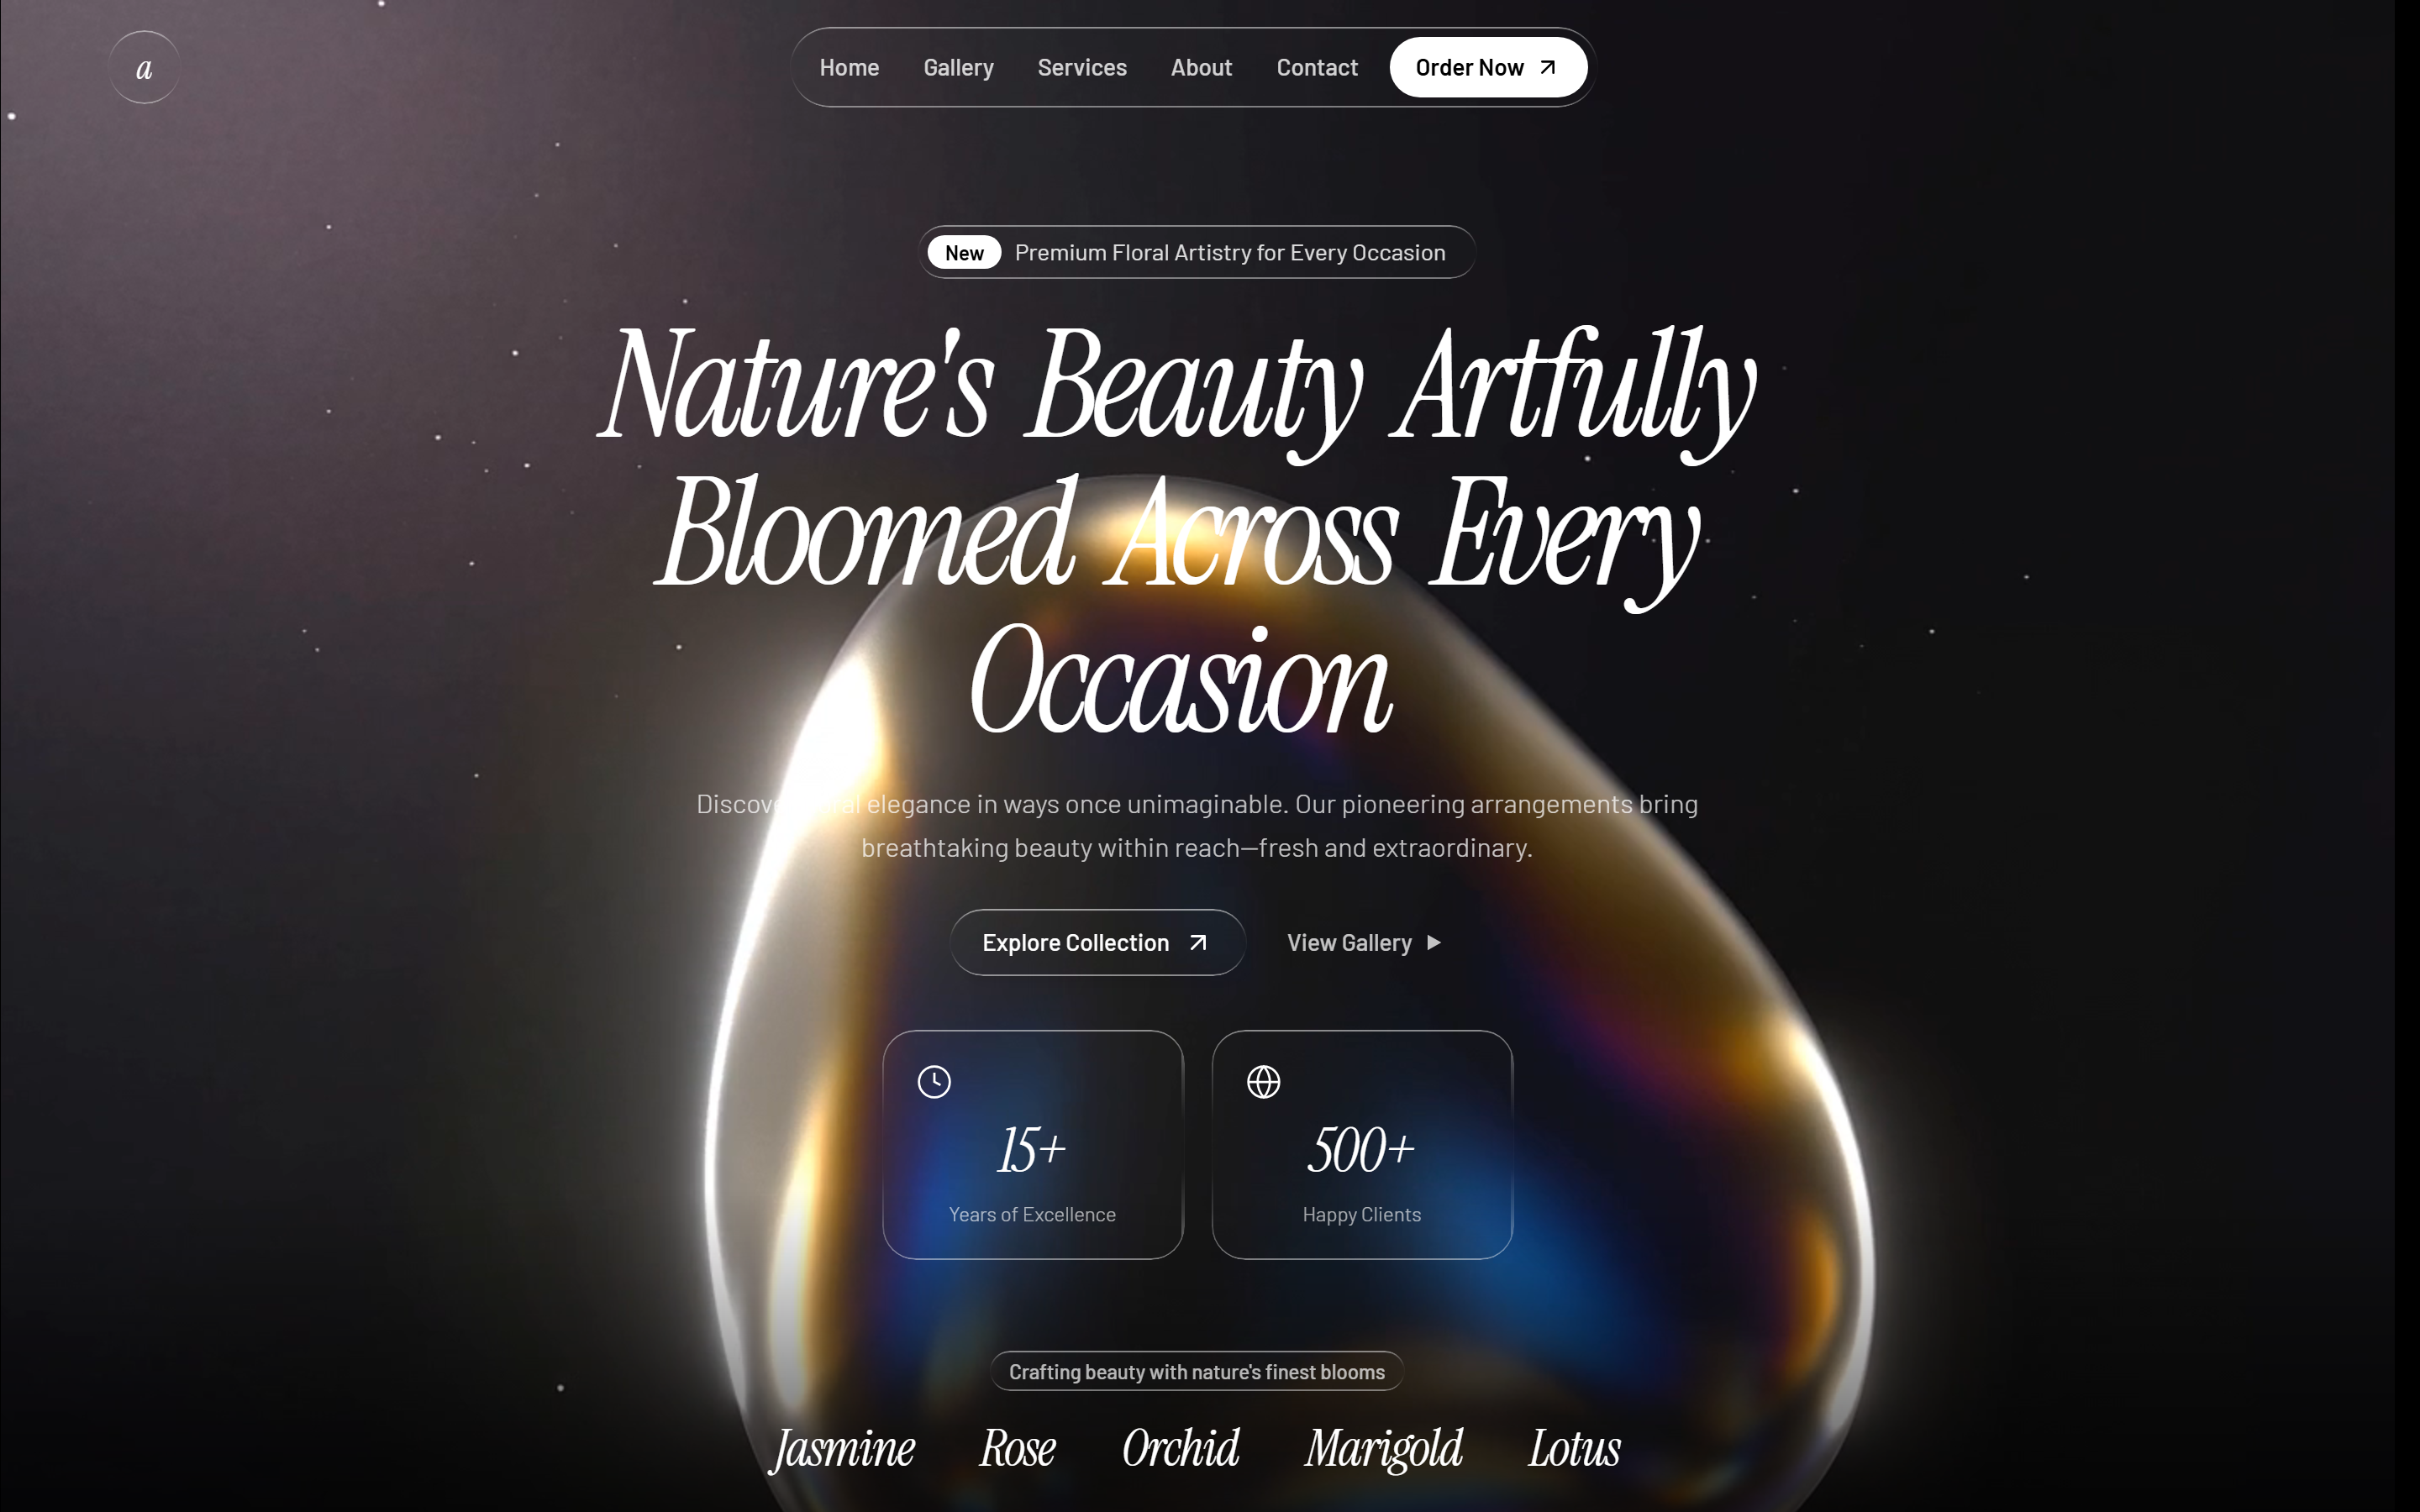
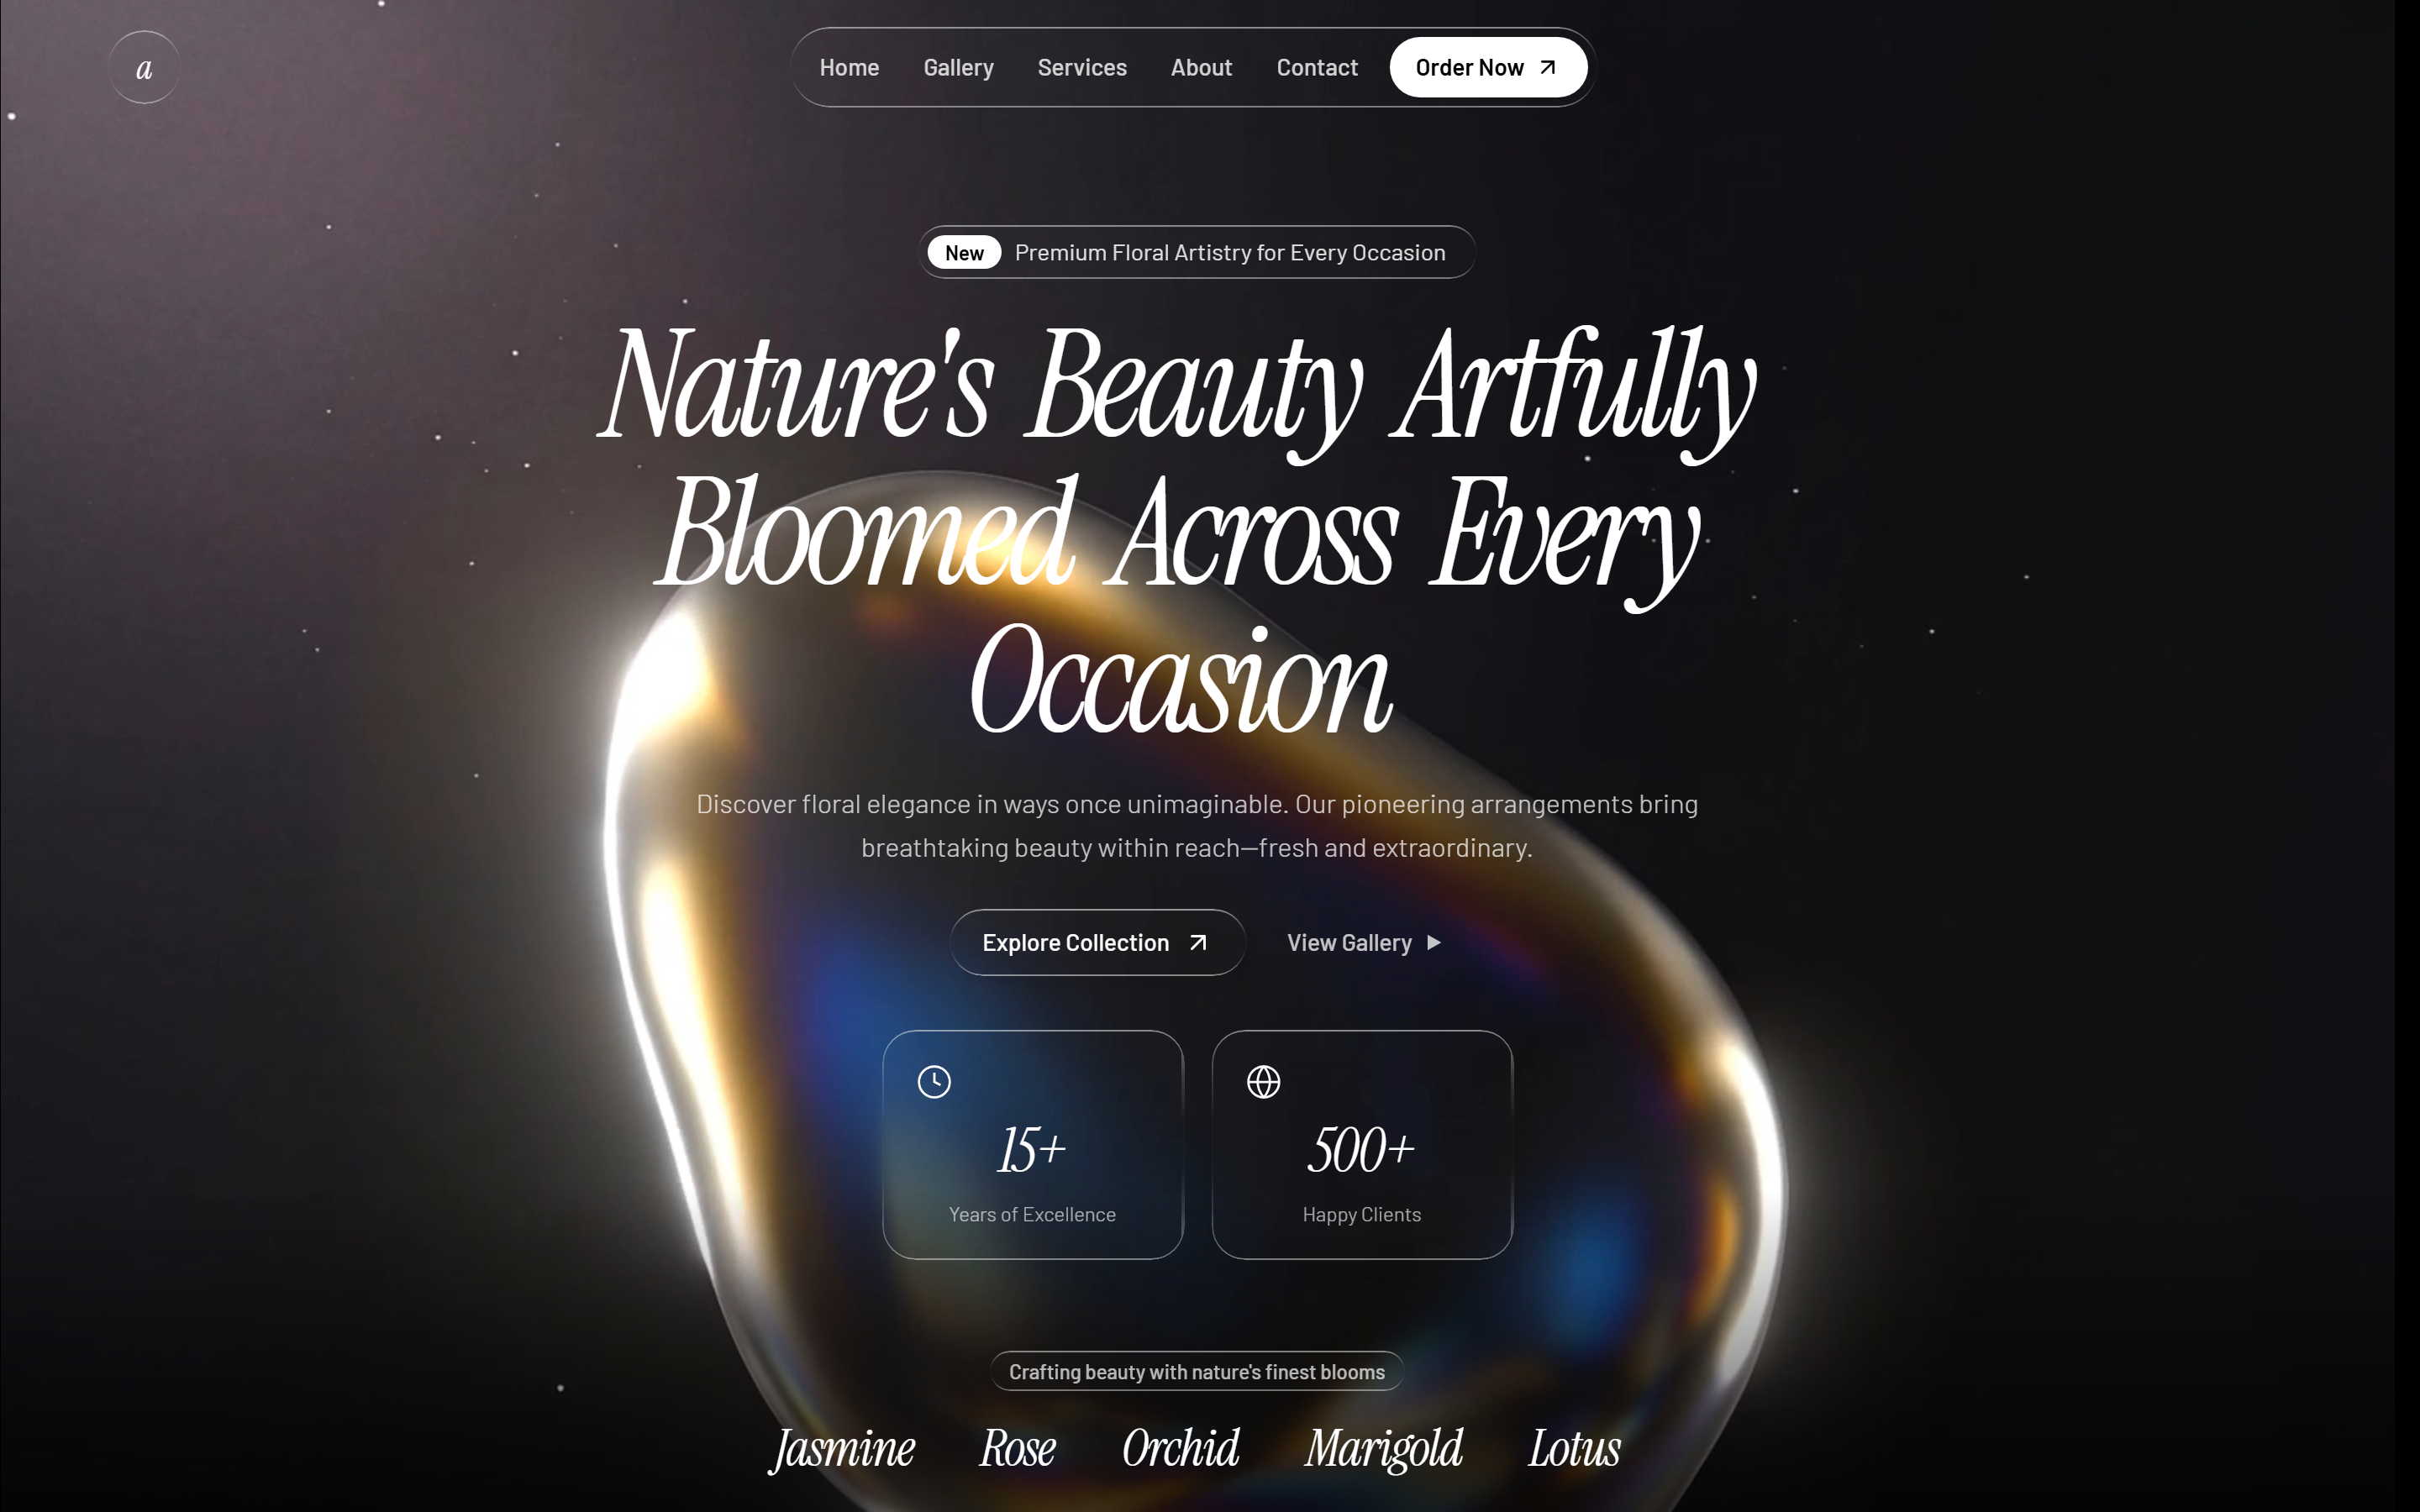
Add RivalEye + Elite Badge Media projects with fresh screenshots
Capture all 5 live sites at a consistent 1440x900 viewport and wire the
two new projects into the bento grid, journal, and explorations gallery.

Changed region(s): [[0.1875, 0.3111, 0.8125, 1.0], [0.5312, 0.9022, 0.5938, 0.9644]]

diff --git a/src/data/site.ts b/src/data/site.ts
@@ -42,6 +42,26 @@ export const PROJECTS: Project[] = [
     aspect: "aspect-[16/11]",
   },
   {
+    title: "RivalEye",
+    category: "Competitor Intel",
+    description:
+      "Competitor intelligence that scans real user conversations across the web, so teams see what people actually think about their rivals — not the marketing.",
+    image: "/projects/rivaleye.png",
+    url: "https://rivaleye.app/",
+    span: "md:col-span-5",
+    aspect: "aspect-[16/11]",
+  },
+  {
+    title: "Elite Badge Media",
+    category: "Growth & PR",
+    description:
+      "PR features, Instagram growth, SEO and reputation management for brands and public figures worldwide — engineered to manufacture authority.",
+    image: "/projects/elitebadge.png",
+    url: "https://elite-badge-media.vercel.app/",
+    span: "md:col-span-7",
+    aspect: "aspect-[16/11]",
+  },
+  {
     title: "Ayush Flower Merchant",
     category: "E-Commerce",
     description:
@@ -69,13 +89,13 @@ export const JOURNAL: JournalEntry[] = [
   },
   {
     title: "Why constraints make better products",
-    image: "/projects/ayushflower.png",
+    image: "/projects/rivaleye.png",
     readTime: "4 min read",
     date: "Apr 2026",
   },
   {
     title: "Building a personal brand that scales",
-    image: "/projects/shadabportfolio.png",
+    image: "/projects/elitebadge.png",
     readTime: "8 min read",
     date: "Mar 2026",
   },
@@ -102,8 +122,8 @@ export const STATS: Stat[] = [
 export const EXPLORATION_IMAGES = [
   "/projects/linkedinflow.png",
   "/projects/shadabportfolio.png",
-  "/projects/ayushflower.png",
+  "/projects/rivaleye.png",
+  "/projects/elitebadge.png",
   "/projects/ayushflower.png",
   "/projects/linkedinflow.png",
-  "/projects/shadabportfolio.png",
 ];